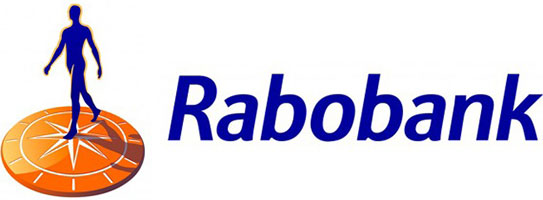
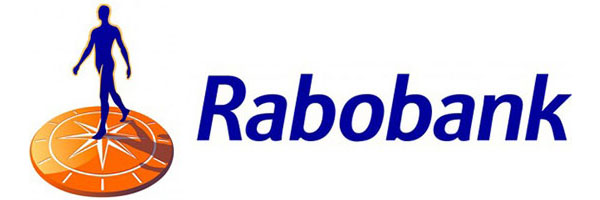
update sponsors img fix width

Changed region(s): [[0.0, 0.0, 1.0, 0.99]]

diff --git a/sponsors/index.md b/sponsors/index.md
@@ -23,7 +23,7 @@ TEDxAmstelveen 2018 wordt mede mogelijk gemaakt door de geweldige hulp van:
            <amp-img
                noloading
                height="200"
-               width="400"
+               width="600"
                alt="{{ member.name }}"
                layout="responsive"
                src="/img/sponsors/{{ member.pic }}.jpg">
